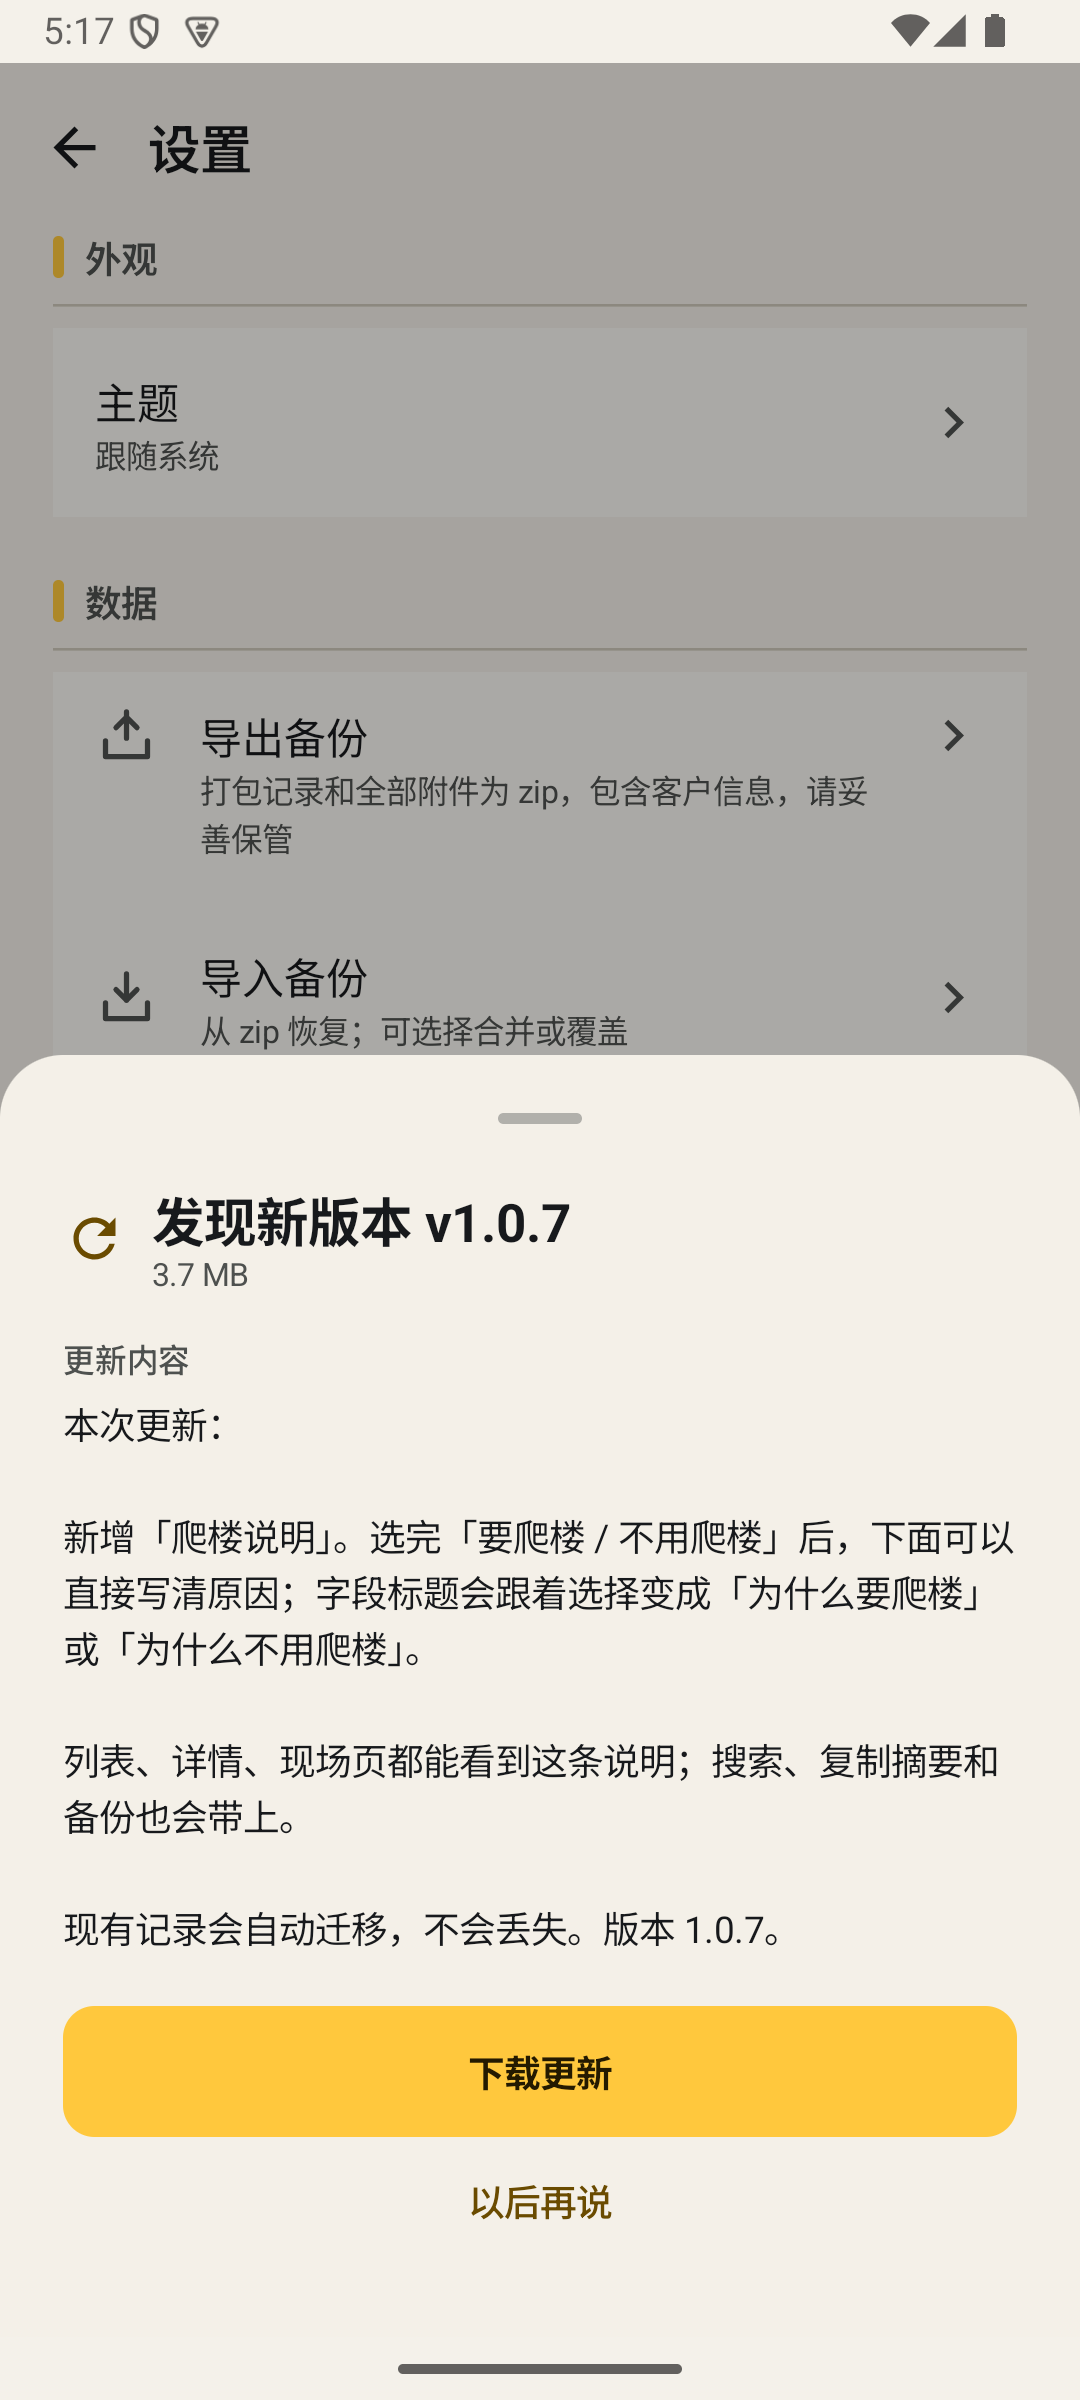
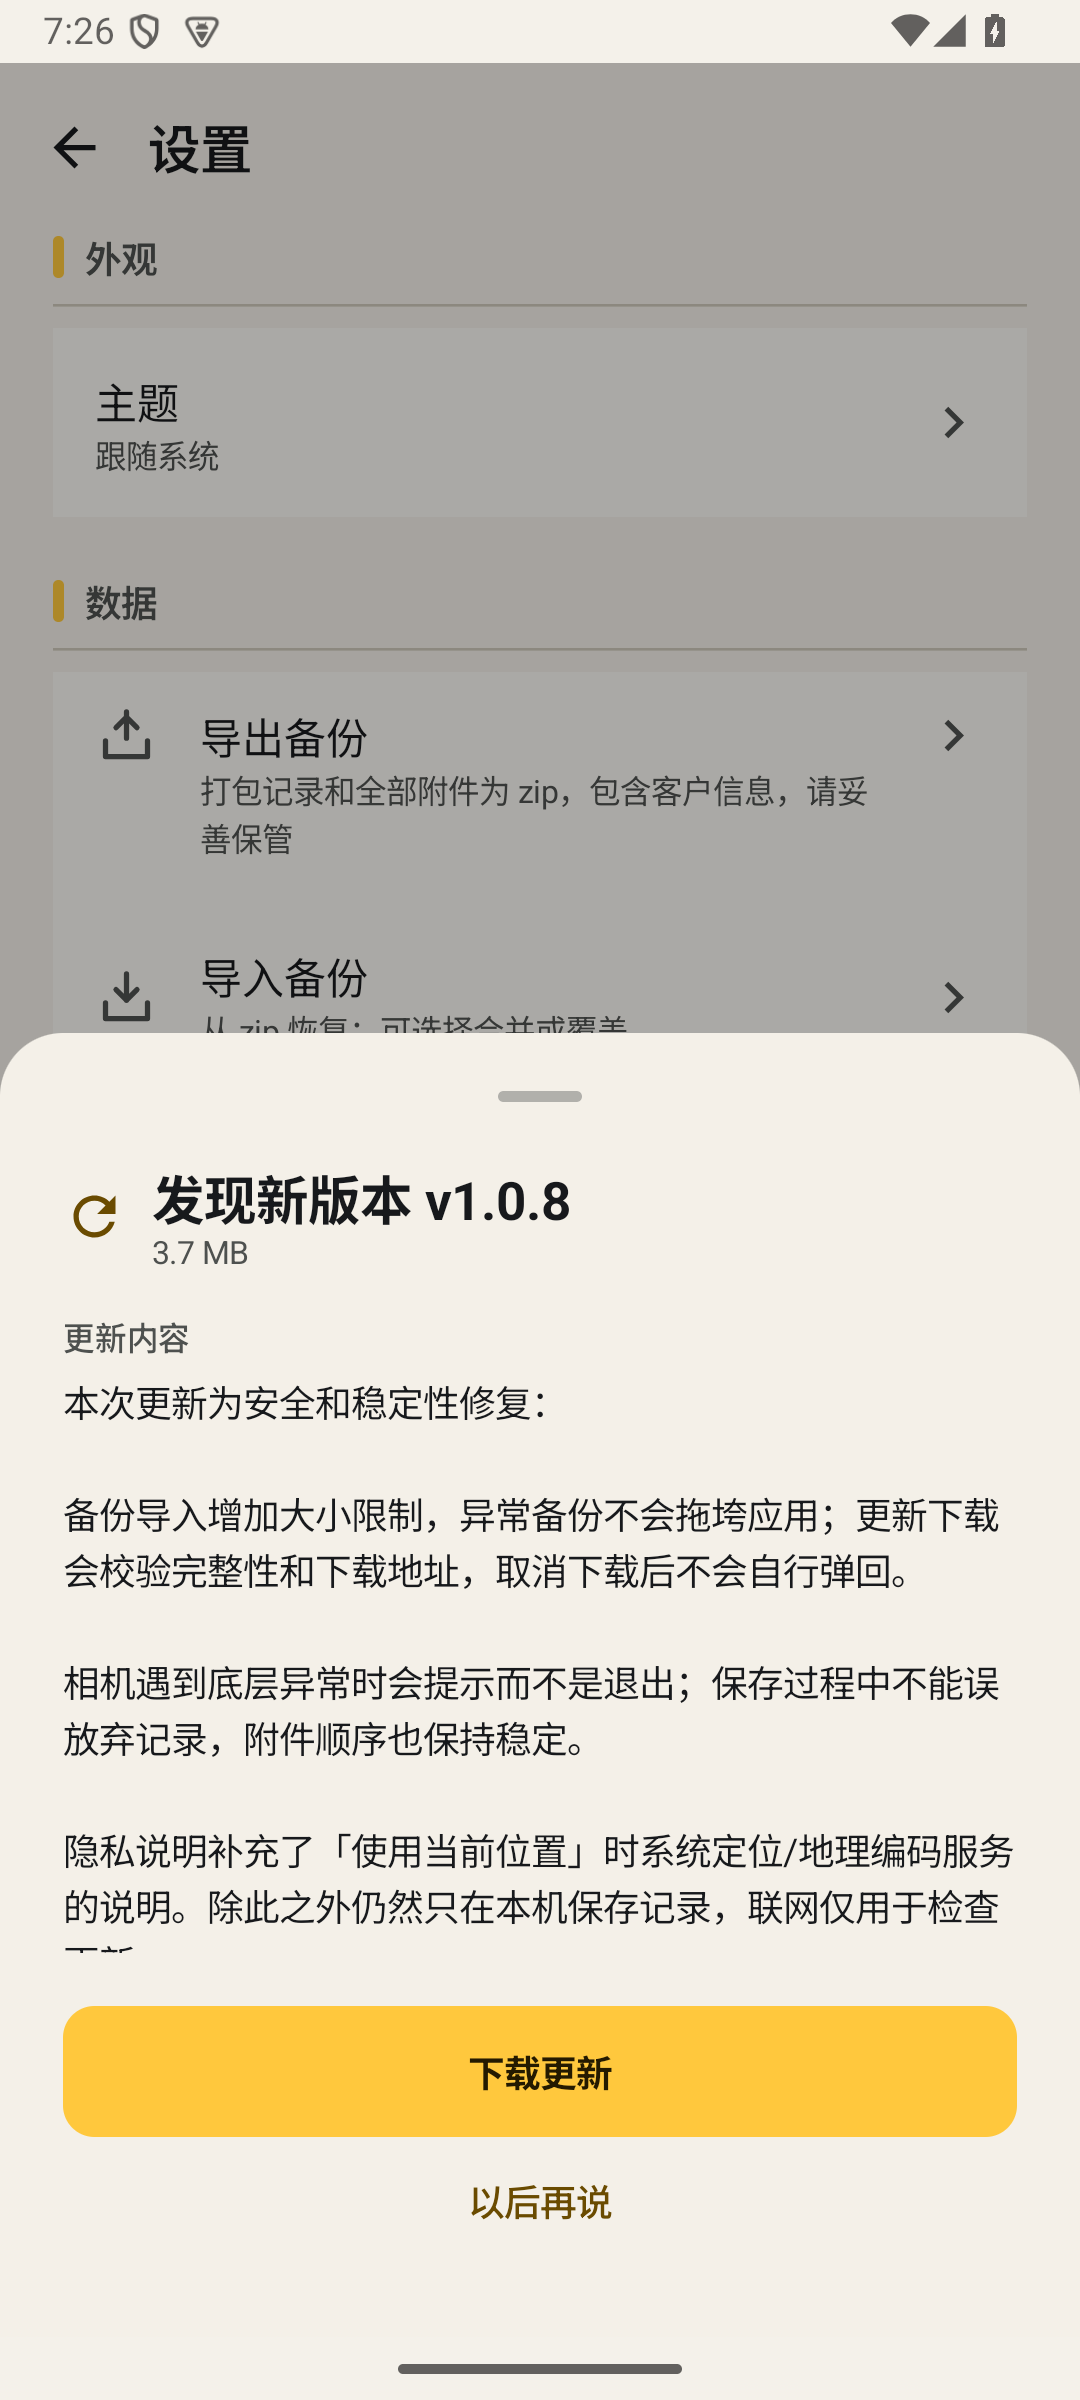
docs: v1.0.8 安全稳定性审计报告与更新证据

Changed region(s): [[0.0306, 0.4062, 1.0, 0.8125], [0.0306, 0.0, 0.0917, 0.0312], [0.0, 0.4375, 0.0306, 0.4688]]

diff --git a/docs/AUDIT.md b/docs/AUDIT.md
@@ -1,0 +1,133 @@
+# 楼记 · 安全性 / 稳定性 / 可靠性 / 逻辑性审计
+
+日期：2026-11-02
+审计对象：楼记 v1.0.7（versionCode 8）及 v1.0.8 修复（versionCode 9，提交 `26ef529`）
+环境：Android Emulator `RiderClimbApi35`，API 35；JDK 17；Gradle 8.5；compileSdk/targetSdk 34
+
+## 1. 结论摘要
+
+本轮审计覆盖清单、组件与权限、GitHub 更新、zip 备份、媒体文件、Room 数据层、隐私文案和主要状态流。未发现可直接远程执行代码或直接外传记录的漏洞；发现并修复了 2 个高影响可用性问题、5 个中影响问题及若干低风险问题。
+
+- 19 个 JVM 单元测试通过。
+- 17 个仪器化测试通过（含新增的 Room v2→v3 迁移测试、超大 JSON 拒绝测试、合并去重回归测试）。
+- Android Lint：0 error，20 个 warning（均为依赖版本、Manifest API 属性或库自身提示）。
+- Mimosa 深度静态扫描：0 findings，63 packages；证据边界为 `static_only_no_runtime_execution`。
+- v1.0.7 → v1.0.8 应用内更新已在模拟器完成，`versionName=1.0.8`、`versionCode=9`，旧记录保留。
+
+> 本报告只证明本轮检查与测试覆盖到的范围。Mimosa 是静态扫描，未做运行时渗透或模糊测试；不宣称应用绝对无漏洞。
+
+## 2. 检查清单
+
+### 2.1 安全性
+
+| 检查项 | 结果 | 证据 |
+| --- | --- | --- |
+| 签名密钥 / 密码是否入库 | 通过 | `.gitignore` 忽略 `keystore/`、`keystore.properties`、`*.jks`；仓库无可用凭据字面量 |
+| 组件导出面 | 通过 | 只有 `MainActivity`（launcher）导出；FileProvider `exported=false`，只暴露 `cache/updates/` |
+| 明文网络 | 通过 | `android:usesCleartextTraffic="false"`；更新只使用 HTTPS |
+| 更新下载地址 | 通过 | 初始与最终响应 URL 都校验 GitHub 域名；不允许非 HTTPS |
+| 更新完整性 | 通过 | 有 `.sha256` 资产时必须成功取得并校验 SHA-256；缺失/无效则中止；安装包上限 250MB |
+| 更新文件路径 | 通过 | 版本名过滤为字母、数字、`.`、`-`、`_`，限制 64 字符；写入 App 私有 cache |
+| 覆盖安装 | 通过 | 交给系统安装器；Android 强制同签名覆盖；本地实测同签名升级 |
+| 备份 zip 路径穿越 | 通过 | 拒绝 `..`、绝对路径、反斜杠归一化、NUL、越界 canonical path |
+| 备份资源耗尽 | 通过 | 最多 20,000 entries、单媒体 500MB、JSON 16MB、总解压 8GB；JSON 在解析前拒绝 |
+| 媒体路径删除 | 通过 | 只删除 canonical path 位于 App `media/` 或 `thumbs/` 下的文件 |
+| 数据库查询 | 通过 | Room 参数化查询；筛选值来自枚举名；无拼接 SQL |
+| 系统备份 / 云同步 | 通过 | `allowBackup=false`，backup rules 排除 root/file/database/sharedpref/external |
+| 导出数据敏感性 | 部分通过 | zip 未加密，设置页和 README 已明确提示包含客户信息，需用户自行保管 |
+| 隐私文案准确性 | 通过（已修） | 原文声称联网仅更新，但“使用当前位置”可能调用系统地理编码；v1.0.8 已补充说明 |
+| 硬编码密钥 / Token | 通过 | 源码只读取 BuildConfig 的 GitHub 仓库地址，无密钥 |
+
+### 2.2 稳定性
+
+| 检查项 | 结果 | 证据 |
+| --- | --- | --- |
+| 相机权限拒绝 / 无相机 | 通过 | 权限门与错误提示；CameraX 绑定失败提示 |
+| 相机拍照 / 录像初始化异常 | 通过（已修） | v1.0.8 对 `takePicture`、`prepareRecording`、`start` 加 try/catch，失败删临时文件并提示 |
+| 录像最长时长 | 通过 | 2 分钟自动 stop；Finalize 清理/生成缩略图 |
+| 页面退出时录制清理 | 通过 | `DisposableEffect` 停止录制、解绑 CameraX、释放屏幕常亮 |
+| 保存中返回 / 放弃 | 通过（已修） | 保存中禁止放弃；`onCleared` 不在保存中删除待提交媒体 |
+| 下载取消 | 通过（已修） | generation token 忽略取消后的回调；`CancellationException` 不转成错误弹层 |
+| 编辑记录加载失败 | 通过（已修） | `initialize` 捕获异常并进入 `loadFailed`，不再无限转圈 |
+| 启动时孤儿媒体 | 通过（已修） | 启动后清理 5 分钟前的未引用媒体，避免误删刚拍摄但未保存的文件 |
+| 坏图片 / 坏视频文件 | 通过 | 查看器检查文件存在；缩略图生成失败返回 null；播放器释放 |
+| 大字体 / 横屏 | 通过 | 1.3× 与横屏截图实际查看；无字段截断（长爬楼说明按正常换行） |
+
+### 2.3 可靠性
+
+| 检查项 | 结果 | 证据 |
+| --- | --- | --- |
+| Room 迁移 v1→v2→v3 | 通过 | `DatabaseMigrationTest` 验证 v2→v3；v1.0.4→v1.0.5、v1.0.6→v1.0.7 模拟器升级实测 |
+| 备份往返 | 通过 | `BackupManagerTest` 导出/导入字段、媒体、标签 |
+| 备份合并去重 | 通过 | 相同签名跳过；新增含 `|` 字段的不同记录不会被误判 |
+| 备份失败不破坏旧数据 | 部分通过 | 导入在 Room 事务内；新复制媒体在提交失败时删除；导出到 SAF 失败仍可能留下部分目标文件 |
+| 更新检查/下载/安装 | 通过 | GitHub Release API、SHA-256、系统安装器、同签名覆盖 |
+| 附件顺序 | 通过（已修） | 统一按 `createdAt`、`id` 排序，缩略图/媒体页/备份顺序稳定 |
+| 清除数据 | 通过 | 事务删除记录与附件，随后清理媒体目录 |
+| 搜索 / 筛选 / 统计 | 通过 | DAO 参数化查询与仪器化测试 |
+
+### 2.4 逻辑性
+
+| 检查项 | 结果 | 证据 |
+| --- | --- | --- |
+| 楼层/房号第一眼 | 通过 | 列表大号 `placeDisplay`，空值占位 |
+| 爬楼说明随决策变化 | 通过 | 标题 `为什么不用爬楼 / 为什么要爬楼 / 爬楼情况说明` |
+| 备注与性格备注分离 | 通过 | 独立字段、独立 UI、独立备份/搜索 |
+| 搜索覆盖 | 通过 | 位置、订单、尾号、楼层、房号、备注、爬楼说明、性格 |
+| 合并去重键 | 通过（已修） | 由 `location|order|createdAt` 字符串改为 `Triple`，消除分隔符碰撞 |
+| 导入字段截断 | 通过 | 位置 120、订单 60、备注/说明 300、标签 12×30、附件 20 |
+| 附件数量上限 | 通过 | UI 与校验器均限制 20；备份导入截断 |
+| 表单校验 | 通过 | 位置必填、尾号 4 位、字段长度、媒体上限 |
+
+## 3. 发现与修复
+
+| 编号 | 严重度 | 发现 | 修复 | 验证 |
+| --- | --- | --- | --- | --- |
+| F-01 | 高 | 备份导入允许单个 `records.json` 达到 500MB，`readText()` 解析可能 OOM | JSON 条目限制 16MB，解压阶段提前拒绝，`readJson` 二次校验 | `BackupManagerTest.rejectsOversizedJsonEntryBeforeParsing` 通过 |
+| F-02 | 高 | 更新取消后阻塞下载回调可能把弹层重新拉回；校验文件获取失败会静默跳过校验；重定向最终 host 未复核；旧目标 APK 可能被误用 | generation token、`CancellationException` 透传、最终 URL 校验、校验文件必需、250MB 上限、sanitize 文件名、删除旧目标 | 代码审查 + v1.0.7→v1.0.8 实测下载/安装 |
+| F-03 | 中 | 相机录像 setup 抛异常会导致页面崩溃（存储/相机状态异常） | 拍照与录像 setup 全部 try/catch，失败删除临时文件并提示 | `CameraFlowTest` 2 项通过 |
+| F-04 | 中 | 保存进行中仍可放弃编辑，可能在数据库提交后删除已引用媒体 | 保存中禁止放弃；`onCleared` 保存中不删 pending media；启动孤儿清理有 5 分钟宽限 | 代码审查 + 全量测试 |
+| F-05 | 中 | 备份导入提交成功后，清理/进度回调异常会进入 catch 并删除已入库媒体 | 只在复制/插入失败时删除新文件；提交后清理使用 `runCatching` | 代码审查 + 备份测试 |
+| F-06 | 中 | 合并去重使用 `location|order|createdAt` 字符串，字段含 `|` 时可能误跳记录 | 改用 `Triple<String,String,Long>` | 新增合并回归测试 |
+| F-07 | 中 | 隐私文案称联网仅用于更新，但定位按钮可能使用地理编码网络 | 设置页对话框、README 明确说明定位/地理编码可能解析坐标 | 1.0×/1.3× 对话框截图 |
+| F-08 | 低 | Room `@Relation` 未排序，附件展示顺序不保证 | 数据层统一按 `createdAt,id` 排序 | 代码审查 + UI 测试 |
+| F-09 | 低 | 进程被杀后的临时媒体可能长期残留 | 启动后台清理超过 5 分钟的孤儿文件 | 代码审查 |
+| F-10 | 低 | 编辑页读取数据库异常时可能一直显示加载 | `initialize` 捕获异常并显示记录不存在/失败对话框 | 代码审查 |
+
+## 4. 验证证据
+
+```text
+JVM 单元测试:          19 / 19 通过
+仪器化测试 (API 35):   17 / 17 通过
+Android Lint:          0 errors, 20 warnings
+Mimosa deep scan:      0 findings, 63 packages
+scanId:                scan-2026-11-02T07-17-11.135Z-3458fa7664f7
+seal:                  sha256:c39332c8da899e88aa7269cf9cc259d4011de9bdb1fd1d1b2bcd9f17e42a788a
+Release APK:           v1.0.8, versionCode 9, 3.9 MB, 已签名
+签名证书 SHA-256:      48d7799eeff1bba3c3da9f63102365431ca6272042343ac9d8197113276525bd
+应用内更新:            v1.0.7 → v1.0.8 安装成功，旧记录保留
+```
+
+自动化覆盖：
+
+- `RecordFlowTest`：新建/详情/编辑/删除/搜索/筛选/备注/爬楼说明/缩略图放大。
+- `CameraFlowTest`：CameraX 拍照、录像。
+- `RecordDaoTest`：关系、级联、搜索筛选、统计。
+- `BackupManagerTest`：往返、合并去重、覆盖、zip-slip、超大 JSON、分隔符碰撞。
+- `DatabaseMigrationTest`：Room v2→v3 迁移。
+- `BackupJsonTest` / `RecordValidatorTest` / `FormattersTest` / `AppVersionTest` / `InstallTargetTest`：JVM 层逻辑与序列化。
+
+## 5. 残余风险与未覆盖项
+
+1. **备份未加密**：导出的 zip 是明文，含客户信息；这是产品选择，已在 UI/README 提示。
+2. **备份总量上限较高**：总解压上限 8GB，恶意或超大备份可能造成磁盘压力；已被上限截断，但未做压缩比检测。
+3. **未做运行时渗透/模糊测试**：Mimosa 只做静态扫描，`library_source` / `callgraph` 证据边界仍在；未在真机、多 Android 版本、弱网、恶意媒体文件上做 fuzz。
+4. **更新信任链**：依赖 GitHub TLS、仓库发布权限和 Android 同签名安装；未做证书 pinning，也未在应用内做 APK 签名校验（系统安装器负责）。
+5. **导出原子性**：SAF 写入失败时可能留下部分 zip 文件，未实现临时文件+原子提交。
+6. **错误反馈**：删除记录/附件的数据库异常没有统一用户提示；属于低频错误路径。
+7. **CI**：GitHub Actions 因账号计费被锁定，当前 CI 工作流禁用；本轮验证为本地执行。
+8. **Playwright**：原生 Android 无法由 Playwright 驱动，使用 Compose instrumentation + adb/uiautomator 替代。
+
+## 6. 结论
+
+v1.0.8 修复了本轮审计发现的 2 个高影响可用性问题和 5 个中影响问题，补充了备份上限、更新下载、迁移和去重的回归测试。当前自动化门禁全部通过；在上述残余风险明确的前提下，可以发布 v1.0.8。该结论不是“绝对安全”的证明。

diff --git a/docs/TEST_REPORT.md b/docs/TEST_REPORT.md
@@ -161,6 +161,7 @@
 - 数据库迁移：v1.0.4 → v1.0.5 首次启动执行 Room v1→v2 迁移，新增 `remark` 列且旧记录保留；已在模拟器实测。
 - v1.0.5 → v1.0.6 无数据库结构变化，覆盖安装后原有记录与媒体正常显示。
 - v1.0.6 → v1.0.7 首次启动执行 Room v2→v3 迁移，新增 `climbNote` 列；旧记录保留，并在 release 包中补填爬楼说明、保存后详情正确显示。
+- v1.0.7 → v1.0.8 覆盖安装成功，旧「Release Test」记录保留；本版本为安全/稳定性修复，数据库结构不变。
 
 ## 7. 证据目录
 
@@ -177,6 +178,8 @@
 - `app/build/reports/lint-results-debug.html`
 
 > 说明：全局规则要求网页/应用自动化优先 Playwright MCP；Playwright 只驱动浏览器 DOM，无法驱动原生 Android APK。本项目使用 Android 官方等价栈（Compose instrumentation + adb/uiautomator + 模拟器截图）做真实点击与断言。所有 UI 截图均实际查看并修复后复拍。
+
+安全性、稳定性、可靠性和逻辑性的检查清单、发现与残余风险见 [`docs/AUDIT.md`](AUDIT.md)。
 
 ## 8. 已知限制
 
